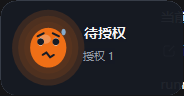
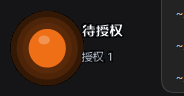
v0.3.0: transparent glowing lamp - drop faces and card background

diff --git a/README.md b/README.md
@@ -15,12 +15,11 @@ A floating, always-on-top status lamp that lives **outside** the DeepSeek Harnes
 | ⚫ 暗灰「宿主离线」 | DSH 未运行 | state.json 超过 15 秒未更新，或标记 hostDown |
 
 - 多会话聚合优先级：橙 > 蓝 > 绿 > 灰；灯上显示当前状态与计数。
-- **表情灯 + 动画**：灯芯上画着一张会动的脸——
-  🟢 微笑脸，上下弹性伸缩（挤压拉伸+轻微弹跳）+ 眼球扫视 + 随机眨眼；
-  🟠 紧张脸（八字眉+波浪嘴+汗滴）+ 左右发抖；
-  🔵 好奇脸（单侧挑眉+歪嘴+头顶 `?` 气泡）+ 上下漂浮；
-  ⚪ 困倦脸（闭眼+小 o 嘴+`Z z`）静止；⚫ X 眼平嘴静止。
-  动画 20fps，仅绿/橙/蓝状态运行，灰/暗灰完全静止（不闪不晃，不打扰）。
+- **极简发光 + 动画**：无卡片背景（`TransparencyKey` 全透明），只有发光圆灯（三层光晕+高光）
+  和带暗色描边的文字，任何桌面背景下都可读——
+  🟢 上下弹性伸缩（挤压拉伸、底部锚定、轻微弹跳）；
+  🟠 左右紧张抖动；🔵 上下漂浮；⚪/⚫ 完全静止。
+  动画 20fps，仅绿/橙/蓝状态运行（不闪不晃，不打扰）。
 - **悬停卡片**：鼠标移到灯上约 0.3 秒，灯左侧弹出深色卡片，逐行列出每个会话：
   `[状态] 最近一条用户消息（正在: 工具名）`；移开自动消失，拖动灯时隐藏。
 - 离线超过 60 秒灯自动退出（宿主重启后会重新拉起）。
@@ -40,9 +39,10 @@ A floating, always-on-top status lamp that lives **outside** the DeepSeek Harnes
     重新开启则重新拉起灯。
   - `apply()` 返回清理函数（cordis fiber disposable）。⚠ 不要在 apply 里访问
     `ctx.dispose`——Context 没有该成员，代理会抛错并使 fiber 进入错误态（所有监听被摘除）。
-- `widget/lamp.ps1`（独立灯窗）：PowerShell WinForms，置顶无边框圆角卡片（184×96），
-  400ms 轮询 state.json；表情脸用 GDI+ 绘制，`animTimer` 50ms/帧仅在
-  running/approval/question 时驱动（相位角驱动挤压拉伸、抖动、漂浮、眨眼）。
+- `widget/lamp.ps1`（独立灯窗）：PowerShell WinForms，置顶无边框（184×96），
+  `BackColor = TransparencyKey = 纯黑` 抠除背景，只画发光灯与描边文字；
+  400ms 轮询 state.json；`animTimer` 50ms/帧仅在
+  running/approval/question 时驱动（相位角驱动挤压拉伸、抖动、漂浮）。
   左键拖动（位置记忆到 `pos.json`），右键菜单：置顶开关 / 退出。
   互斥锁 + `lamp.pid` 保证单实例（环境变量 `DSH_LAMP_TAG` 可换锁名，供测试实例并存）。
 
